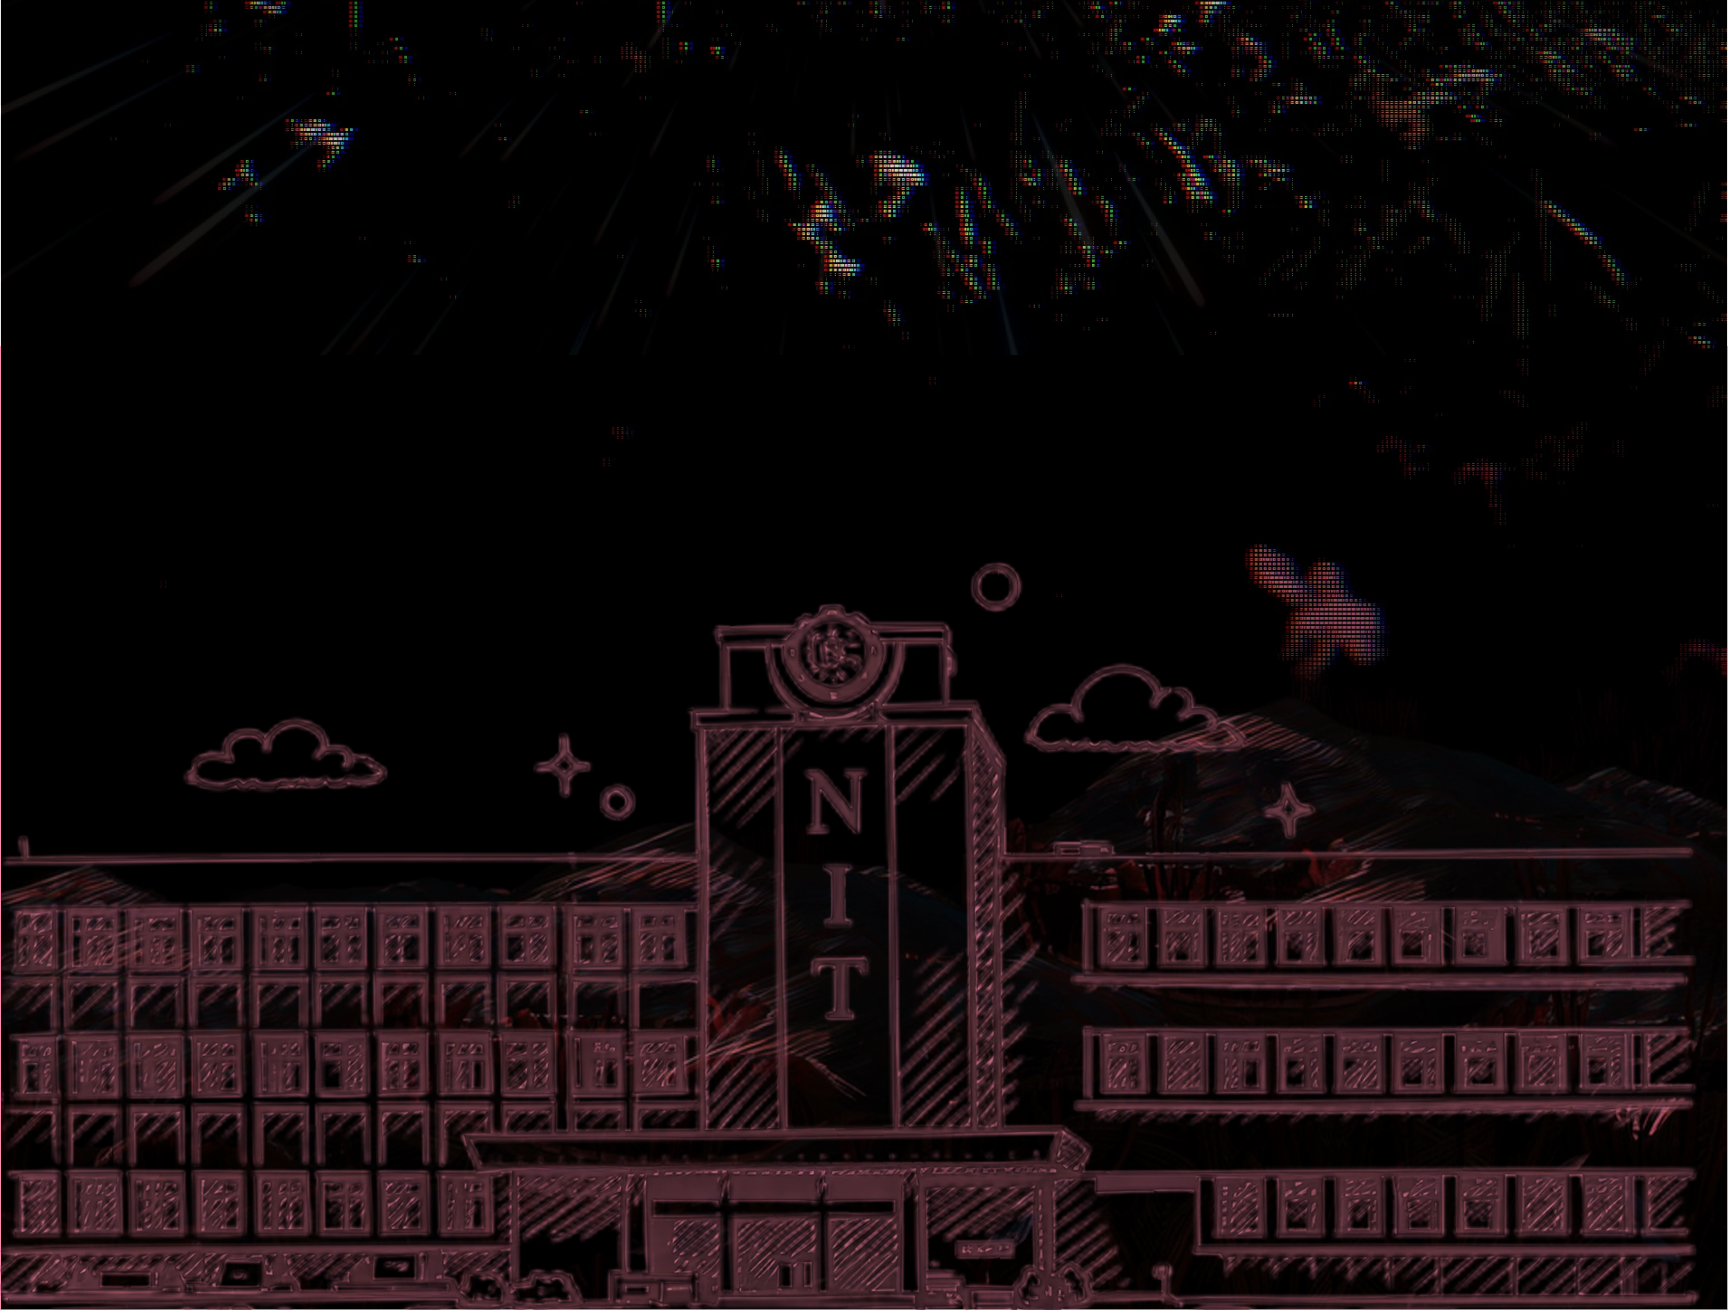
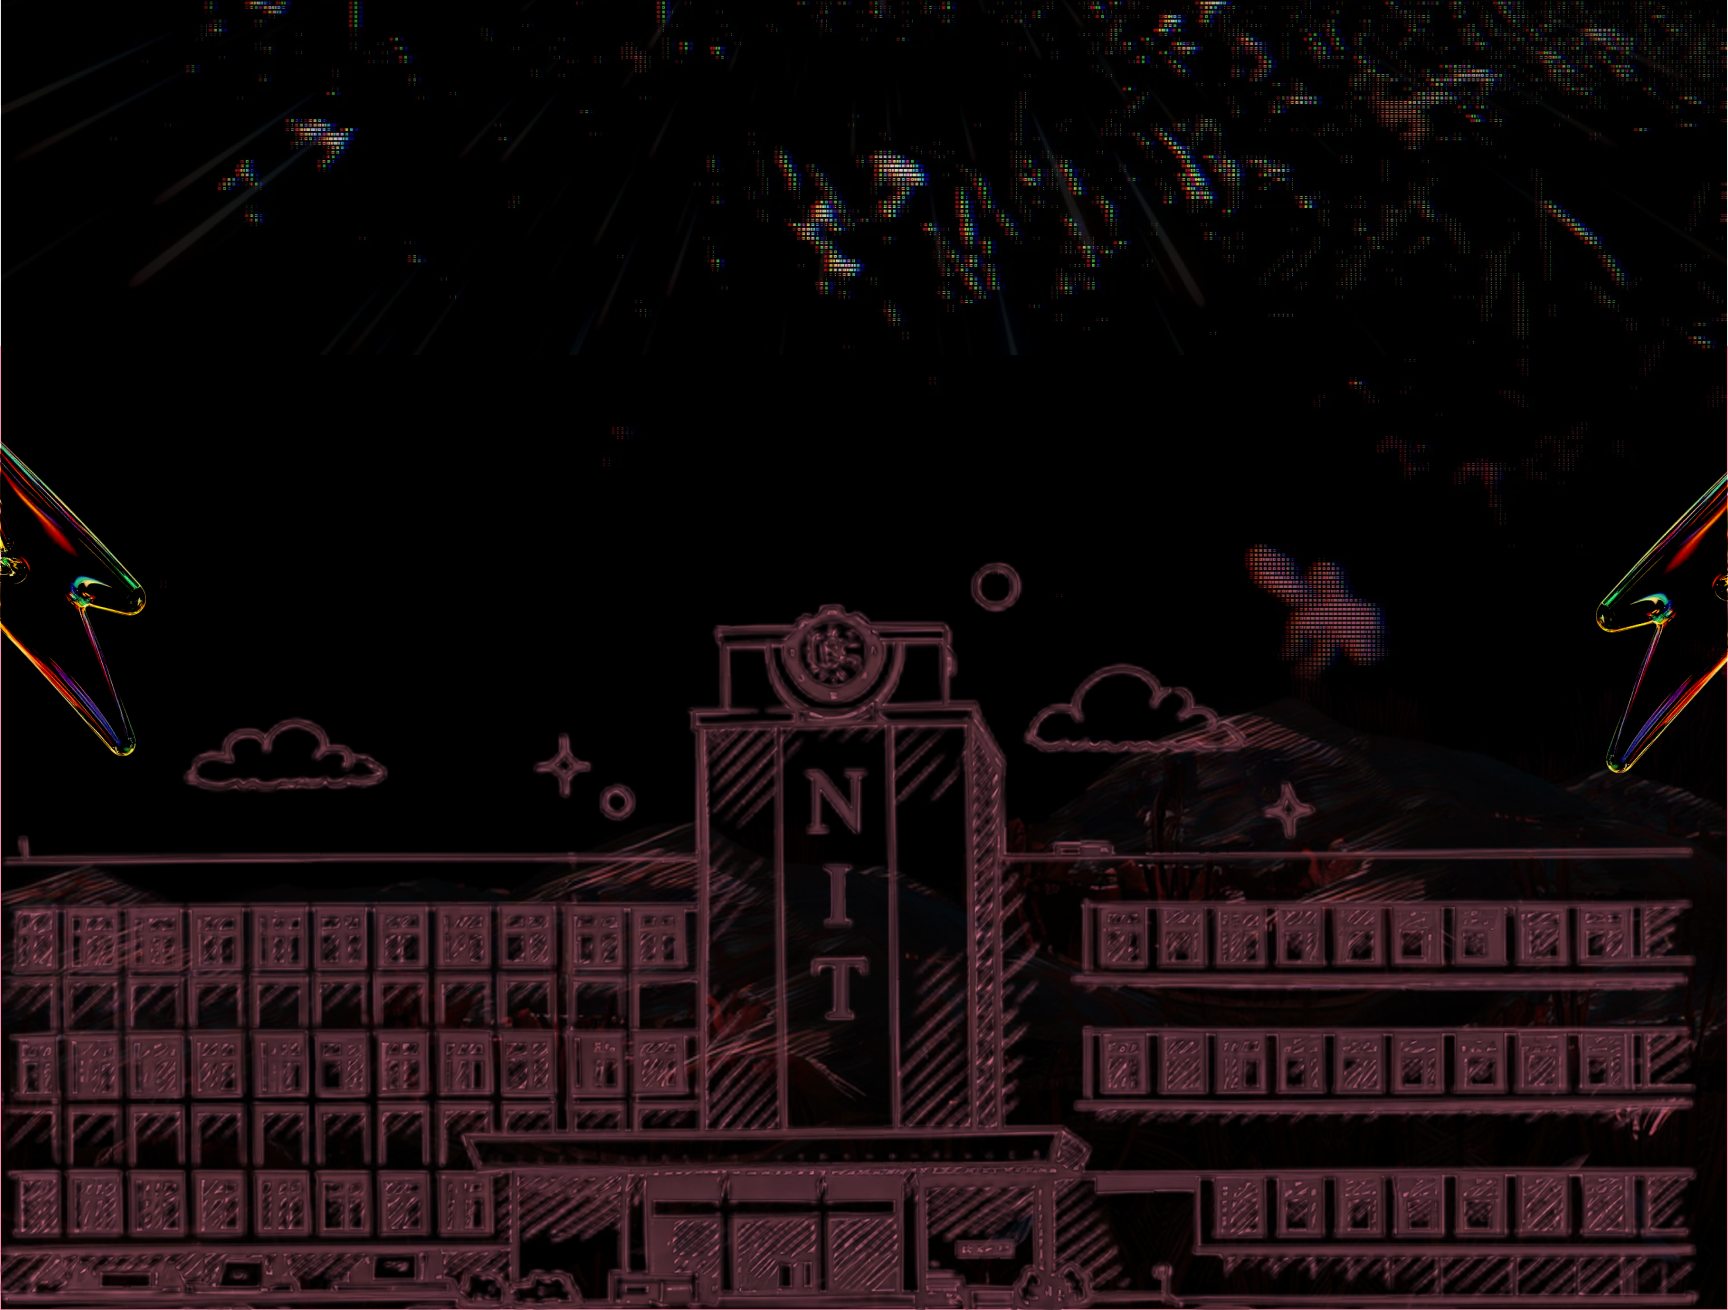
finish

Changed region(s): [[0.0, 0.3359, 0.0938, 0.5802], [0.9062, 0.3664, 1.0, 0.5802]]

diff --git a/src/pages/About.tsx b/src/pages/About.tsx
@@ -1,73 +1,99 @@
-// import efecto20260107T0848501 from "../assets/img/efecto-2026-01-07T08-48-50-1.png";
-import image31 from '../assets/img/image-31.png'
-// import image2711 from "../assets/img/image-2711.png";
+import { motion, useScroll, useTransform } from 'framer-motion'
+import { useRef } from 'react'
 import image2727 from '../assets/img/image-2727.png'
-import image2736 from '../assets/img/image-2736.png'
 import image2748 from '../assets/img/image-2748.png'
 import image2749 from '../assets/img/image-2749.png'
 import image2750 from '../assets/img/image-2750.png'
 import HeroSection from '../assets/img/heroseciton.png'
 import type { JSX } from 'react'
 
-export const About = (): JSX.Element => {
+const textContent =
+  "THIS YEAR, CREO 26' IS THE FIRST EDITION OF NIT ROURKELA’S NATIONAL DESIGN CONFERENCE, CURATED TO EXPLORE HOW DESIGN DRIVES INNOVATION BEYOND AESTHETICS. THE CONFERENCE FOCUSES ON PRODUCT THINKING, HUMAN CENTERED DESIGN, SUSTAINABILITY, CREATIVE TECHNOLOGY, AND DESIGN LED ENTREPRENEURSHIP. THROUGH TALKS, WORKSHOPS, DESIGNATHON, AND EXHIBITIONS, CREO 26' CONNECTS STUDENTS."
+
+const Word = ({
+  children,
+  range,
+  progress,
+  isPrimary,
+}: {
+  children: string
+  range: [number, number]
+  progress: any
+  isPrimary?: boolean
+}) => {
+  const opacity = useTransform(progress, range, [0.15, 1])
   return (
-    <div className='w-full min-h-screen bg-black text-white relative flex justify-center items-center font-fort overflow-hidden'>
-      {/* Top streaks/effect */}
-      <div className='absolute inset-0 pointer-events-none z-0'>
-        <img alt='Background' className='w-full h-full object-cover' src={HeroSection} />
+    <span className='relative mx-1 inline-block'>
+      <span className='absolute opacity-10 select-none'>{children}</span>
+      <motion.span style={{ opacity }} className={isPrimary ? 'text-primary' : 'text-white'}>
+        {children}
+      </motion.span>
+    </span>
+  )
+}
+
+export const About = (): JSX.Element => {
+  const containerRef = useRef<HTMLDivElement>(null)
+  const { scrollYProgress } = useScroll({
+    target: containerRef,
+    offset: ['start start', 'end end'],
+  })
+
+  const words = textContent.split(' ')
+
+  return (
+    <div ref={containerRef} className='relative h-[150vh] bg-black font-fort'>
+      {/* Background Section - Absolutely positioned at the top, scrolls with the page */}
+      <div className='absolute top-0 left-0 w-full z-0 h-fit pointer-events-none'>
+        <img alt='Background' className='w-full h-auto' src={HeroSection} />
+
+        {/* Subtle overlay texture - repeated or stretched */}
+        <div
+          className='absolute inset-0 w-full h-full mix-blend-overlay opacity-10'
+          style={{
+            backgroundImage: `url(${image2727})`,
+            backgroundRepeat: 'repeat',
+            backgroundSize: '600px',
+          }}
+        />
       </div>
 
-      {/* Lightning/Sketch elements on sides */}
-      <img
-        className='absolute left-[-20px] md:left-0 top-1/4 w-[100px] md:w-[220px] opacity-90 animate-fade-in pointer-events-none z-20'
-        alt='Lightning sketch left'
-        src={image31}
-      />
+      {/* Sticky Content Layer - Stays pinned while scrolling */}
+      <div className='sticky top-0 h-screen w-full flex justify-center items-center pointer-events-none z-10'>
+        <div className='flex flex-col max-w-6xl w-full px-6 md:px-12 justify-center text-center items-center pointer-events-auto'>
+          {/* Cat icons */}
+          <div className='flex gap-3 md:gap-4 mb-6 md:mb-10 animate-fade-in'>
+            <img className='w-8 md:w-10 h-auto' alt='brand icon' src={image2749} />
+            <img className='w-8 md:w-10 h-auto' alt='brand icon' src={image2748} />
+            <img className='w-8 md:w-10 h-auto' alt='brand icon' src={image2750} />
+          </div>
 
-      {/* Main content */}
-      <div className='z-10 flex flex-col max-w-6xl w-full px-6 md:px-12 justify-center text-center items-center'>
-        {/* Cat icons */}
-        <div className='flex gap-3 md:gap-4 mb-6 md:mb-10 animate-fade-in'>
-          <img className='w-8 md:w-10 h-auto' alt='brand icon' src={image2749} />
-          <img className='w-8 md:w-10 h-auto' alt='brand icon' src={image2748} />
-          <img className='w-8 md:w-10 h-auto' alt='brand icon' src={image2750} />
+          {/* Reveal text */}
+          <h1 className='text-lg md:text-3xl font-black uppercase leading-[1.4] md:leading-[1.6] flex flex-wrap justify-center'>
+            {words.map((word, i) => {
+              const start = i / words.length
+              const end = Math.min(start + 1.5 / words.length, 1) // Slightly overlap transitions for smoothness
+              const isPrimary = word.match(/NIT|ROURKELA|NATIONAL|DESIGN|CONFERENCE/i) && i <= 20
+
+              return (
+                <Word
+                  key={i}
+                  progress={scrollYProgress}
+                  range={[start, end]}
+                  isPrimary={!!isPrimary}
+                >
+                  {word}
+                </Word>
+              )
+            })}
+          </h1>
         </div>
-
-        {/* Paragraph text matching mockup */}
-        <h1 className='text-lg md:text-3xl font-black uppercase leading-[1.4] md:leading-[1.3] animate-fade-up'>
-          <span className='text-white'>THIS YEAR, CREO 26' IS THE FIRST EDITION OF </span>
-          <span className='text-primary block md:inline'>
-            NIT ROURKELA’S NATIONAL DESIGN CONFERENCE
-          </span>
-          <span className='text-white'>
-            , CURATED TO EXPLORE HOW DESIGN DRIVES INNOVATION BEYOND AESTHETICS. THE CONFERENCE
-            FOCUSES ON PRODUCT THINKING, HUMAN{' '}
-          </span>
-          <span className='text-white/30'>
-            CENTERED DESIGN, SUSTAINABILITY, CREATIVE TECHNOLOGY, AND DESIGN LED ENTREPRENEURSHIP.
-            THROUGH TALKS, WORKSHOPS, DESIGNATHON, AND EXHIBITIONS, CREO 26' CONNECTS STUDENTS.
-          </span>
-        </h1>
       </div>
 
-      <img
-        className='absolute right-[-20px] md:right-0 top-1/4 w-[100px] md:w-[220px] opacity-90 animate-fade-in pointer-events-none z-20'
-        alt='Lightning sketch right'
-        src={image2736}
-      />
-      {/* Building Sketch at Bottom */}
-      {/* <img
-        className="pass-through absolute bottom-10 left-1/2 -translate-x-1/2"
-        src={image2711}
-        alt="Sketch"
-      /> */}
-
-      {/* Subtle overlay texture */}
-      <img
-        className='absolute inset-0 w-full h-full object-cover mix-blend-overlay opacity-10 pointer-events-none'
-        alt='Texture overlay'
-        src={image2727}
-      />
+      {/* Scroll indicator */}
+      <div className='fixed bottom-8 left-1/2 -translate-x-1/2 text-white/20 text-xs uppercase tracking-widest animate-pulse z-30 pointer-events-none'>
+        Scroll to reveal
+      </div>
     </div>
   )
 }
